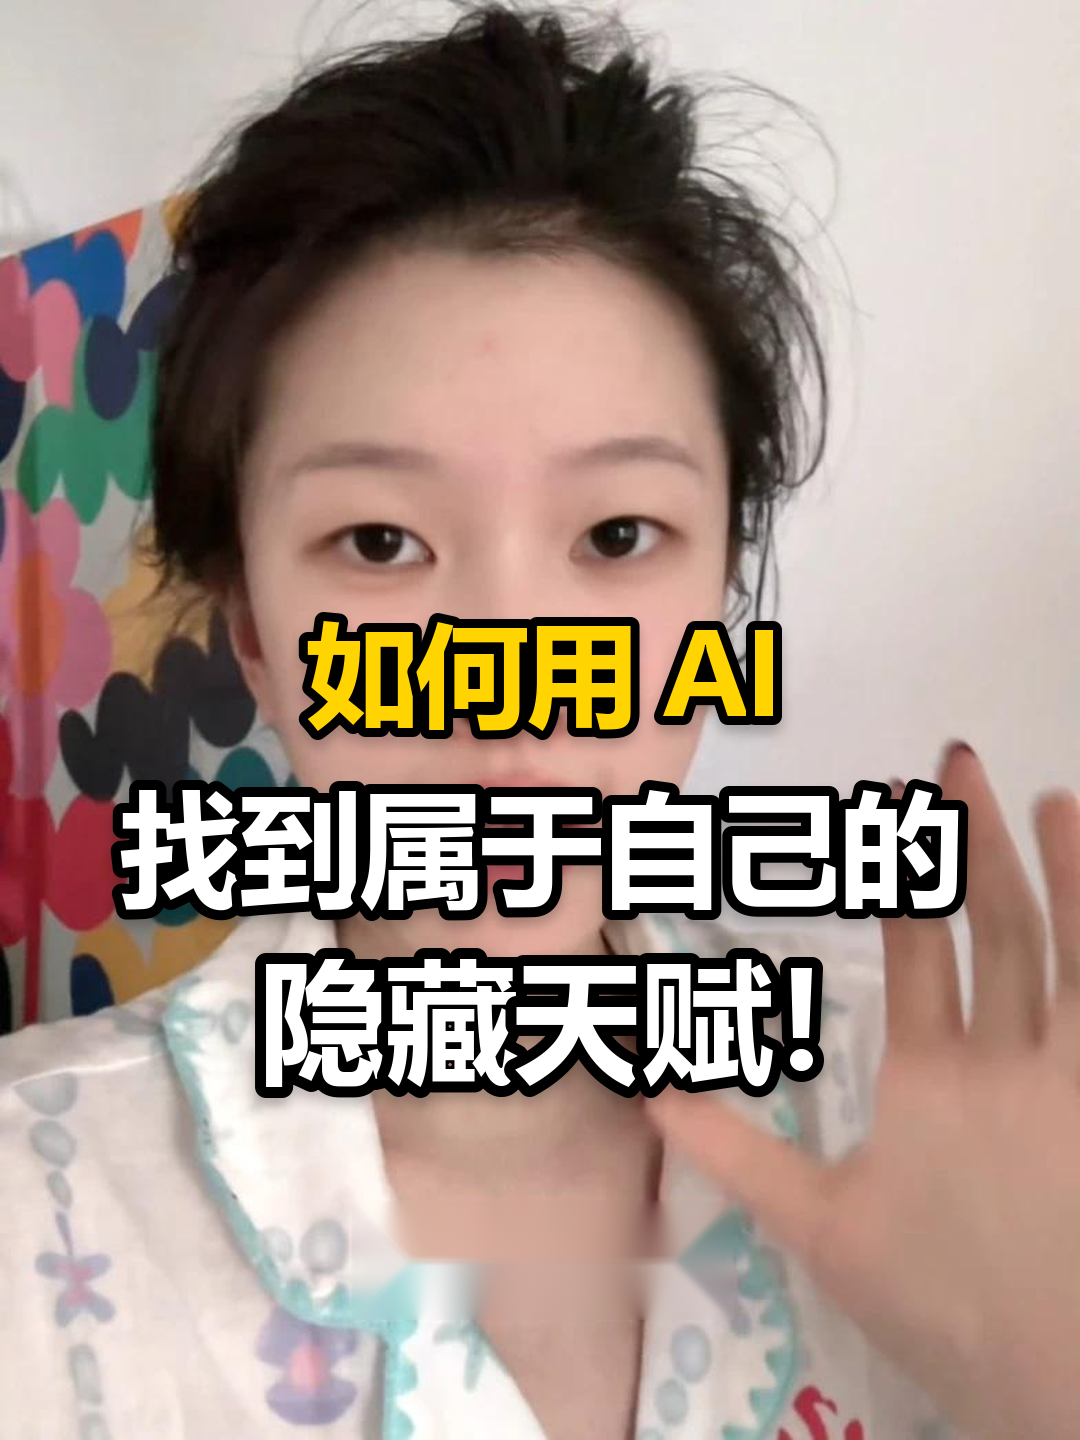
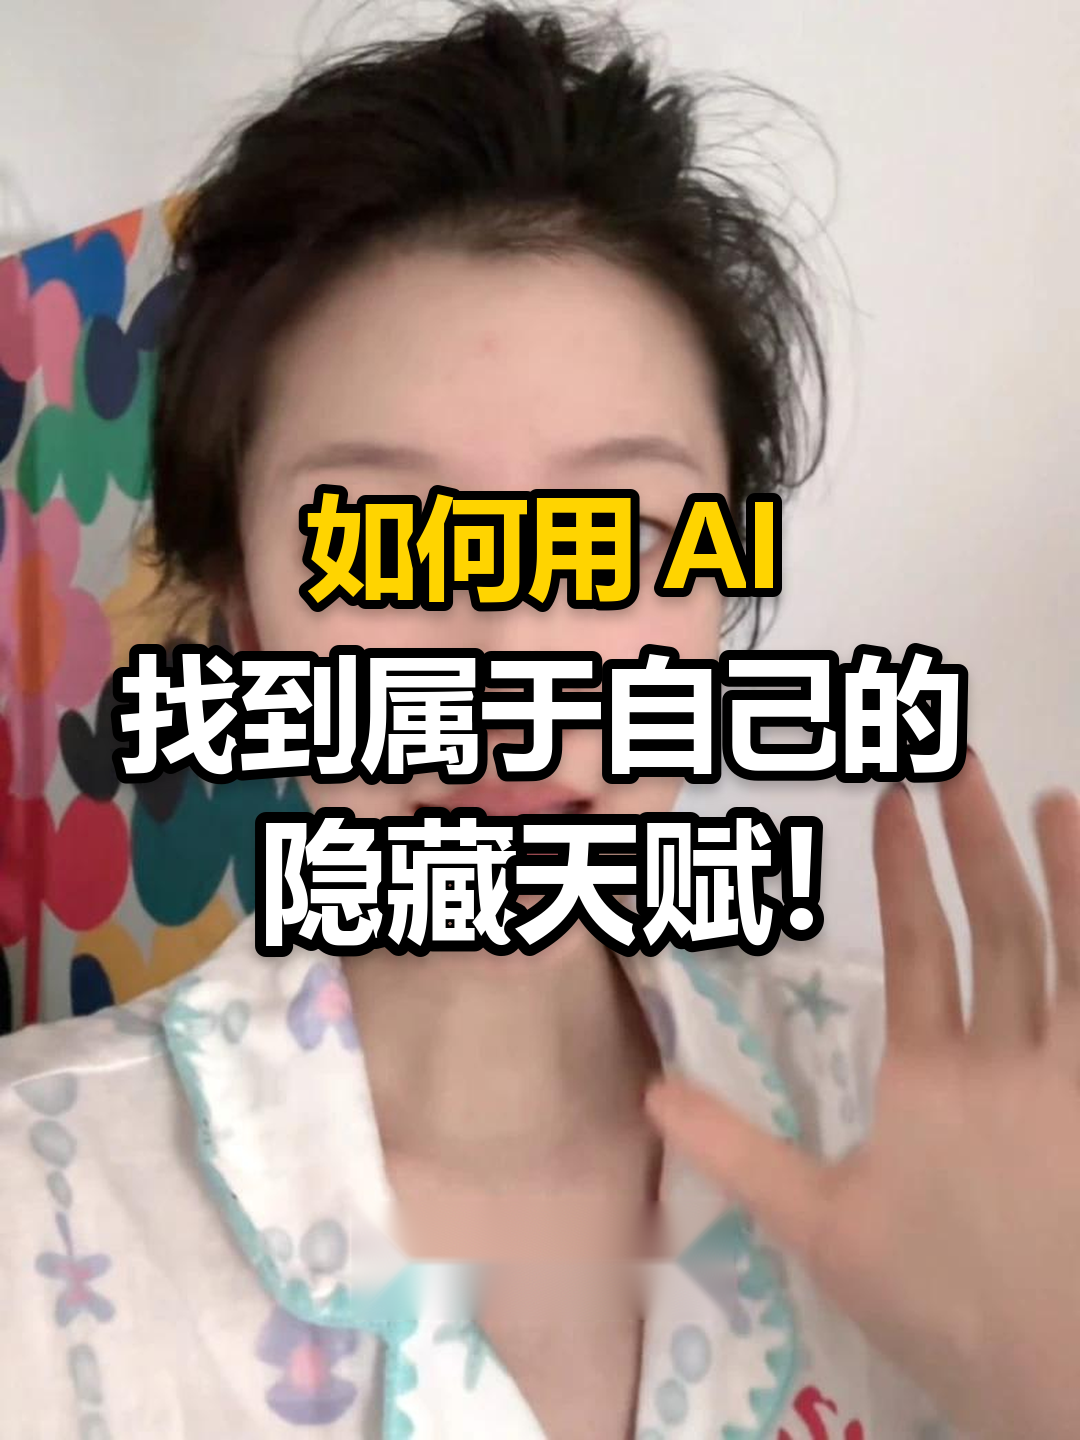
fix: 文字块改为画布绝对居中并写死
- 定位改为取整块文字的墨迹包围盒，中心直接钉在 (W/2, H/2)，左右上下同时居中
- 移除 zone / 绝对 y 两套会漂移的参数，只保留 --offset-y 做 ±40px 微调
- 同步更新风格卡、README、SKILL、INDEX 里的参数说明与设计常量
- 重出两张代表样本

Changed region(s): [[0.0917, 0.3125, 0.9167, 0.7812]]

diff --git a/tools/style01_stroke_stack.py b/tools/style01_stroke_stack.py
@@ -31,8 +31,6 @@ FONT_PRESETS = {
     'heiti': (r'C:\Windows\Fonts\simhei.ttf', None),         # 黑体，硬朗综艺感
 }
 
-ZONES = {'top': 0.26, 'upper': 0.40, 'face': 0.56, 'lower': 0.70, 'bottom': 0.80}
-
 USABLE = 0.83          # 可用宽度占比（两侧各留 8.5%）
 STROKE_RATIO = 0.080   # 描边 / 字号
 LINE_GAP = 1.36        # 行距 / 正文字号
@@ -187,7 +185,7 @@ def auto_split(text, max_visual=7.4):
 # ------------------------------------------------------------ 绘制
 
 def draw_line(canvas_w, text, size, fill, stroke, tracking):
-    """逐字绘制（字距可控），按墨迹裁切返回图层"""
+    """逐字绘制（字距可控），按墨迹裁切。返回 (图层, 基线在图层内的 y)"""
     f = load_font(preset_holder['font'], size)
     tmp = Image.new('RGBA', (canvas_w + 600, int(size * 2.6)), (0, 0, 0, 0))
     d = ImageDraw.Draw(tmp)
@@ -197,14 +195,16 @@ def draw_line(canvas_w, text, size, fill, stroke, tracking):
                stroke_width=stroke, stroke_fill=(0, 0, 0, 255))
         x += d.textlength(ch, font=f) + tracking
     bbox = tmp.getbbox()
-    return tmp.crop(bbox) if bbox else None
+    if not bbox:
+        return None, 0
+    return tmp.crop(bbox), baseline - bbox[1]
 
 
 preset_holder = {'font': 'noto'}
 
 
 def render(base, out, title=None, split=None, accent='#FFD400', font='noto',
-           zone='face', y=None, shadow=True, width=1080, height=1440,
+           offset_y=0, shadow=True, width=1080, height=1440,
            tracking=-5, stroke_ratio=STROKE_RATIO, size_ratio=DEFAULT_S):
     preset_holder['font'] = font
     W, H = width, height
@@ -238,38 +238,43 @@ def render(base, out, title=None, split=None, accent='#FFD400', font='noto',
     S = min(lo, W * size_ratio)
     sizes = [max(int(W * 0.05), int(round(S * c))) for c in coef]
 
-    center_y = y if y is not None else H * ZONES.get(zone, 0.56)
+    # ===== 硬约束：整块文字按墨迹包围盒钉在画布正中（左右 + 上下）=====
     gap = LINE_GAP * S
-    centers = [center_y + (i - (n - 1) / 2) * gap for i in range(n)]
-
+    stage = Image.new('RGBA', (W, H * 2), (0, 0, 0, 0))
+    base0 = int(H * 0.90)              # 任意起点，后面会被 bbox 重新定位
     accent_rgba, white = hex2rgba(accent), (255, 255, 255, 255)
-    layers = []
-    for i, (ln, size, cy) in enumerate(zip(lines, sizes, centers)):
+    for i, (ln, size) in enumerate(zip(lines, sizes)):
         st = max(6, round(size * stroke_ratio))
-        layer = draw_line(W, ln, size, accent_rgba if i == 0 else white,
-                          st, tracking * size / 123.0)
-        if layer:
-            layers.append((layer, cy, size))
+        layer, base_in_layer = draw_line(
+            W, ln, size, accent_rgba if i == 0 else white, st,
+            tracking * size / 123.0)
+        if not layer:
+            continue
+        line_baseline = base0 + i * gap
+        stage.alpha_composite(layer, (int(W / 2 - layer.width / 2),
+                                      int(line_baseline - base_in_layer)))
+
+    bbox = stage.getbbox()
+    block = stage.crop(bbox)
+    x = int(round((W - block.width) / 2))
+    y = int(round((H - block.height) / 2 + offset_y))
 
     if shadow:
-        sh = Image.new('RGBA', (W, H), (0, 0, 0, 0))
         off = max(3, round(W * 0.0074))
-        for layer, cy, size in layers:
-            sil = Image.new('RGBA', layer.size, (0, 0, 0, 0))
-            sil.paste((0, 0, 0, 58), (0, 0), layer.getchannel('A'))
-            sh.alpha_composite(sil, (int(W / 2 - layer.width / 2),
-                                     int(cy + size * 0.355 - layer.height / 2 + off)))
+        sil = Image.new('RGBA', block.size, (0, 0, 0, 0))
+        sil.paste((0, 0, 0, 58), (0, 0), block.getchannel('A'))
+        sh = Image.new('RGBA', (W, H), (0, 0, 0, 0))
+        sh.alpha_composite(sil, (x, min(y + off, H - block.height)))
         img = Image.alpha_composite(
             img.convert('RGBA'),
             sh.filter(ImageFilter.GaussianBlur(max(2, round(W * 0.0056)))))
 
-    for layer, cy, size in layers:
-        img.alpha_composite(layer, (int(W / 2 - layer.width / 2),
-                                    int(cy + size * 0.355 - layer.height / 2)))
+    img.alpha_composite(block, (x, y))
 
     img.convert('RGB').save(out, quality=96)
-    return {'lines': lines, 'sizes': sizes, 'S': round(S), 'zone': zone,
-            'center_y': int(center_y), 'gap': int(gap), 'size': (W, H)}
+    return {'lines': lines, 'sizes': sizes, 'S': round(S), 'gap': int(gap),
+            'block': (block.width, block.height), 'offset': (x, y),
+            'size': (W, H)}
 
 
 def sys_exit(msg):
@@ -284,8 +289,8 @@ def main():
     ap.add_argument('--split', help='手动分行，用 | 分隔')
     ap.add_argument('--accent', default='#FFD400', help='首行钩子色，默认亮黄')
     ap.add_argument('--font', default='noto', choices=list(FONT_PRESETS))
-    ap.add_argument('--zone', default='face', choices=list(ZONES))
-    ap.add_argument('--y', type=int, default=None, help='直接指定字块中心 y')
+    ap.add_argument('--offset-y', type=int, default=0,
+                    help='在正中基础上的微调像素，默认 0（正=下移）')
     ap.add_argument('--width', type=int, default=1080)
     ap.add_argument('--height', type=int, default=1440)
     ap.add_argument('--tracking', type=int, default=-5)
@@ -295,12 +300,13 @@ def main():
     ap.add_argument('--no-shadow', action='store_true')
     a = ap.parse_args()
 
-    p = render(a.base, a.out, a.title, a.split, a.accent, a.font, a.zone, a.y,
+    p = render(a.base, a.out, a.title, a.split, a.accent, a.font, a.offset_y,
                shadow=not a.no_shadow, width=a.width, height=a.height,
                tracking=a.tracking, stroke_ratio=a.stroke_ratio,
                size_ratio=a.size_ratio)
     print(f"saved: {a.out}  {p['size'][0]}x{p['size'][1]}")
-    print(f"字体={a.font}  S={p['S']}  行距={p['gap']}  字块中心y={p['center_y']}")
+    print(f"字体={a.font}  S={p['S']}  行距={p['gap']}  "
+          f"字块 {p['block'][0]}x{p['block'][1]} @ {p['offset']}（画布正中）")
     for ln, s in zip(p['lines'], p['sizes']):
         print(f"  [{s:>4}px] {ln}")
 

diff --git a/style-library/01-描边压脸.md b/style-library/01-描边压脸.md
@@ -1,8 +1,10 @@
 # 样式 01 · 描边压脸 / Stroke Stack
 
-> **核心画像**：真人实拍底图 + **纯黑描边**大字 + **强调色钩子行 / 白结论行**双层撞色 + 多行堆叠**直接压住人物脸部**居中。
+> **核心画像**：真人实拍底图 + **纯黑描边**大字 + **强调色钩子行 / 白结论行**双层撞色 + 多行堆叠，**整块文字钉在画布正中（左右上下都居中）**，自然压住人物脸部。
 >
-> 关键识别特征只有两个：**黑描边**（不是白描边、不是投影）+ **压脸**（不是避脸、不是贴顶）。这一对组合就是"综艺标题字 / 短视频封面"那股味的来源。
+> 关键识别特征只有两个：**黑描边**（不是白描边、不是投影）+ **绝对居中**（整块墨迹钉死在画布正中，不是贴顶、不是靠下、不是避脸）。这一对组合就是"综艺标题字 / 短视频封面"那股味的来源。
+>
+> **居中不是可选项，是硬约束**：出图器用整块文字的墨迹包围盒算中心，左右对 W/2、上下对 H/2。不提供 zone、不提供绝对 y，唯一的例外是 `--offset-y` 的 ±40px 微调。
 >
 > 和「实拍压字」的根本区别：实拍压字无描边、双色是金黄+白、文字**避开**脸、堆在顶部；本卡有描边、文字**盖住**脸、堆在画面中部。两张卡不能混用参数。
 
@@ -25,7 +27,7 @@ core:
   overlay: 无蒙层 —— 禁止任何半透明色块/渐变遮罩
   stroke: 纯黑 #000000 描边（不是白描边、不是投影代替）
   color_system: 双层撞色 —— 首行强调色 + 其余纯白，最多两色
-  text_position: 多行堆叠，水平居中，垂直压住「眼下 → 下巴」这一段
+  text_position: 多行堆叠，整块墨迹包围盒的中心 = 画布中心 (W/2, H/2) —— 左右上下同时居中，硬约束
   max_lines: 3
   no_sticker: 不加小型分类标签、不加边框、不加贴纸
   no_caption: 底图若带原视频字幕，必须先修掉再压字
@@ -36,10 +38,10 @@ layout:
   usable_width: 0.83 W          # 两侧各留 8.5%
   margin: 0.085 W
   line_count: 2-3（1 行仅用于极短标题）
-  align: 居中（按字形墨迹居中，不是按字面框）
+  align: 居中 —— 按整块字形墨迹包围盒算，不是按字面框/行高框
   tracking: -5px @1080（=-0.04em，收紧不松散）
-  block_center_y: 0.56 H        # 默认字块中心，压脸
-  zones: {top: 0.26, upper: 0.40, face: 0.56, lower: 0.70, bottom: 0.80}
+  block_center: [0.5 W, 0.5 H]  # 硬约束：整块墨迹中心 = 画布中心
+  offset_y: 0                  # 唯一可调项，±40px 以内微调，默认 0
 
 # —— 字号阶梯（梯形：首行收、末行放大落点）——
 typography:
@@ -67,7 +69,7 @@ text_rules:
   break: 断行必须落在语义边界（jieba 分词 + 中文禁则），禁止拆开词语
   punctuation: 全角 ！？ 保留；行末标点紧随，不单独成行
 
-one_liner: 黑描边 + 黄色钩子 + 白色结论，三行堆叠压住脸——缩略图里最抓眼的那一类
+one_liner: 黑描边 + 黄色钩子 + 白色结论，三行堆叠、整块钉在画面正中——缩略图里最抓眼的那一类
 
 samples:
   - path: style-library/01-描边压脸/sample-01_雅黑_如何用AI找到隐藏天赋.png
@@ -80,7 +82,7 @@ samples:
 
 ## 一句话记住它
 
-**黑边框住字，黄字抓眼，白字给答案，整块压在脸上。**
+**黑边框住字，黄字抓眼，白字给答案，整块钉在画面正中。**
 
 ---
 
@@ -111,8 +113,8 @@ python tools/style01_stroke_stack.py \
     --base 底图.png --out 封面.png \
     --split "如何用 AI|找到属于自己的|隐藏天赋！"
 
-# 换气质 / 换强调色 / 换字块位置 / 换画布
-... --font heiti --accent "#FF3B30" --zone upper --width 1242 --height 1656
+# 换气质 / 换强调色 / 换画布 / 微调上下
+... --font heiti --accent "#FF3B30" --width 1242 --height 1656 --offset-y -30
 ```
 
 脚本会自动处理：裁 3:4 → 断行（jieba 分词 + 禁则）→ 算字号（长文案缩小、短文案不放大）→ 墨迹居中 → 描边 → 投影 → 输出。运行完会打印每行字号和字块中心 y，方便复核。
@@ -125,8 +127,7 @@ python tools/style01_stroke_stack.py \
 | `--split` | — | 手动分行，`|` 分隔（优先级高于 title） |
 | `--accent` | `#FFD400` | 首行钩子色 |
 | `--font` | `noto` | `noto` / `yahei` / `heiti` |
-| `--zone` | `face` | `top` `upper` `face` `lower` `bottom` |
-| `--y` | — | 直接指定字块中心 y（精细微调用） |
+| `--offset-y` | `0` | 在正中基础上的微调像素（正=下移），建议 ±40 以内 |
 | `--size-ratio` | `0.116` | 正文字号/画布宽 |
 | `--stroke-ratio` | `0.080` | 描边/字号 |
 | `--tracking` | `-5` | 字距（按 1080 基准自动缩放） |
@@ -139,7 +140,7 @@ python tools/style01_stroke_stack.py \
 2. **定断行**：读一遍标题，自己判语义边界，用 `--split` 写死三行。**不要全交给自动断行**——它是兜底，不是标准。
    - 首行放钩子（含英文词/数字最佳，会自动上黄色）
    - 末行放最狠的落点
-3. **定字块位置**：人物脸大且居中 → `face`；人物偏上/露肩多 → `lower`；脸被手挡 → `upper`。有偏差用 `--y` 微调 20-40px。
+3. **位置不用想**：整块文字默认就钉在画布正中（左右上下都居中），这是写死的。只有当人脸明显偏离画面中心、文字压上去很别扭时，才用 `--offset-y ±40` 微调，别养成每次都调的习惯。
 4. **出图后逐字核对**（描边可能糊住小字，缩到 30% 看一眼还认不认得出）。
 5. **落盘**：`output/<YYYY-MM-DD>/<标题>.png`，并把可复用底图另存一份。
 
@@ -147,7 +148,8 @@ python tools/style01_stroke_stack.py \
 
 ## 已知边界
 
-- `face` 区固定 0.56H 是经验值。底图主体比例差异大时（4:3 裁 3:4 会放大人物），需要 `--y` 手动微调。
+- 居中是写死的（墨迹包围盒对画布中心）。底图人物明显偏离中心时，文字虽然居中但视觉重心会偏，只能靠 `--offset-y` 微调，调幅别超过 40px，否则破坏标准。
+- 三行文字块在 1080×1440 上约占 470px 高（33%），压脸是必然结果——这本来就是这套风格的样子，不要试图让它"避开脸"。
 - 单行标题会自动全部上强调色（因为首行规则优先），视觉上比三行版弱一档，长标题尽量不要压成一行。
 - 中文断行依赖 jieba；环境缺 jieba 时退回逐字 + 禁则，仍可能把词拆开 —— 所以 `--split` 永远是更稳的路。
 - 描边超过 `0.09` 会把细笔画糊成一团（"口"字类会闭合），别贪粗。

diff --git a/README.md b/README.md
@@ -10,7 +10,7 @@
 
 | 编号 | 样式 | 识别特征 | 适合 |
 |---|---|---|---|
-| **01** | 描边压脸 | 纯黑描边 + 黄色钩子行 + 白色结论行，多行堆叠**压住脸** | 一句话标题、真人口播、赚钱认知、工具教学 |
+| **01** | 描边压脸 | 纯黑描边 + 黄色钩子行 + 白色结论行，多行堆叠、**整块钉在画面正中** | 一句话标题、真人口播、赚钱认知、工具教学 |
 | **02** | 实拍压字 | 无描边、双色裸压、文字**避开**脸堆顶部 | 短语/数字点标题、观点对话、干货教程 |
 
 两张卡内核相反，参数不能混用。编号只增不改。
@@ -43,8 +43,7 @@ python tools/style01_stroke_stack.py \
 | `--split` | — | 手动分行，`\|` 分隔（优先级更高） |
 | `--accent` | `#FFD400` | 首行钩子色 |
 | `--font` | `noto` | `noto` 思源黑体 Heavy / `yahei` 微软雅黑 Bold / `heiti` 黑体 |
-| `--zone` | `face` | `top` `upper` `face` `lower` `bottom` |
-| `--y` | — | 直接指定字块中心 y，用于微调 |
+| `--offset-y` | `0` | 在正中基础上的微调像素（正=下移），建议 ±40 以内 |
 | `--size-ratio` | `0.116` | 正文字号 / 画布宽 |
 | `--stroke-ratio` | `0.080` | 描边 / 字号 |
 | `--tracking` | `-5` | 字距（按 1080 基准自动缩放） |
@@ -60,11 +59,13 @@ python tools/style01_stroke_stack.py \
 描边粗细      0.080 × 本行字号
 行距          1.36 × 正文字号        # 行中心 → 行中心
 行字号阶梯    0.91 / 1.00 / 1.065    # 首行收、末行放大落点
-字块中心      0.56 H                 # 压住眼下 → 下巴
+字块中心      0.5 W, 0.5 H           # 硬约束：整块墨迹钉在画布正中
 投影          黑 58/255，偏移 0.0074 W，模糊 0.0056 W
 ```
 
 正文字号固定 `0.116 W`，长文案靠缩小兜住、短文案不放大——这样一组封面排在一起，字号是齐的。
+
+**居中是写死的**：按整块文字的墨迹包围盒算中心，左右对 `W/2`、上下对 `H/2`。没有 zone、没有绝对 y，唯一例外是 `--offset-y` 的 ±40px 微调。
 
 ---
 

diff --git a/SKILL.md b/SKILL.md
@@ -19,7 +19,7 @@ allowed-tools: Bash(*), Read, Write, Edit, Grep, Glob, Skill, ImageGen(经DeferE
 
 | 编号 | 样式名 | 关键识别特征 | 出图工具 |
 |---|---|---|---|
-| **01** | 描边压脸 | 纯黑描边 + 黄色钩子行 + 白色结论行，三行堆叠**压脸** | `tools/style01_stroke_stack.py` |
+| **01** | 描边压脸 | 纯黑描边 + 黄色钩子行 + 白色结论行，三行堆叠、**整块钉在画布正中** | `tools/style01_stroke_stack.py` |
 | **02** | 实拍压字 | 无描边、双色裸压、文字**避开**脸 | `tools/compose_cover.py` |
 
 > 用户报编号时**不要反问"是哪个"**，直接查 `style-library/INDEX.md` 拿卡出图。
@@ -67,7 +67,7 @@ allowed-tools: Bash(*), Read, Write, Edit, Grep, Glob, Skill, ImageGen(经DeferE
 2. **看底图套 dispatch 规则**（见「看图分流铁律」）：底色定字色方案，标题结构定布局，不问用户选变体。
 3. **选技术路线（关键分流）**：
    - **路线 A：PIL 代码合成**——底图**不需要改动**、只压标题时，**默认走这条**。底图 100% 保真（AI 会重绘磨皮真人）、文字像素级正确、无水印、零 credits、秒出。按风格卡指定的工具调用：
-     - 样式 01 描边压脸 → `python tools/style01_stroke_stack.py --base 底图 --out 输出 --split "首行|次行|末行" [--accent] [--font] [--zone]`
+     - 样式 01 描边压脸 → `python tools/style01_stroke_stack.py --base 底图 --out 输出 --split "首行|次行|末行" [--accent] [--font] [--offset-y]`
      - 样式 02 实拍压字 → `python tools/compose_cover.py --base 底图 --out 输出 --small 白短句 --lines 大字行 --color 主字色`
    - 工具都在本 skill 目录内。当前工作目录不确定时**用绝对路径调用**（`~/.workbuddy/skills/cover-style-lab/tools/style01_stroke_stack.py`），别 `cd` 进去再跑。
    - **路线 B：AI 图生图**——底图需要**改造**（换背景/造场景/无底图文生图）时才用。真人底图走 AI 会重绘人物（磨皮、衣物细节变动），做真人 IP 素材慎用。

diff --git a/style-library/INDEX.md b/style-library/INDEX.md
@@ -14,7 +14,7 @@
 
 | 编号 | 风格名 | 一句话特征 | 适用内容 | 出图方式 | 代表图 | 状态 |
 |---|---|---|---|---|---|---|
-| **01** | [描边压脸](01-描边压脸.md) | 纯黑描边 + 黄色钩子行 + 白色结论行，多行堆叠**压住脸**居中，双层撞色 | 真人出镜、赚钱认知、工具教学、一句话标题 | `tools/style01_stroke_stack.py`（PIL） | [样本1](01-描边压脸/sample-01_雅黑_如何用AI找到隐藏天赋.png) / [样本2](01-描边压脸/sample-02_思源heavy_同款对比.png) | active |
+| **01** | [描边压脸](01-描边压脸.md) | 纯黑描边 + 黄色钩子行 + 白色结论行，多行堆叠、**整块钉在画布正中**，双层撞色 | 真人出镜、赚钱认知、工具教学、一句话标题 | `tools/style01_stroke_stack.py`（PIL） | [样本1](01-描边压脸/sample-01_雅黑_如何用AI找到隐藏天赋.png) / [样本2](01-描边压脸/sample-02_思源heavy_同款对比.png) | active |
 | **02** | [实拍压字](实拍压字.md) | 真人/场景实拍 + 双色超大字**无描边裸压**；看图定方案——暖底金黄/冷底冷色/暗底亮字 | 真人出镜 IP、观点对话、干货教程 | `tools/compose_cover.py`（PIL）/ 图生图 | [样本1](实拍压字/sample-01_真人变体-从尬聊到深聊.png) / [样本2](实拍压字/sample-02_场景变体-codex隐藏功能.png) | active |
 
 ---
@@ -27,7 +27,7 @@
 |---|---|---|
 | 描边 | **纯黑粗描边**（识别特征） | 无描边，靠投影/暗部 |
 | 字色 | 黄 + **白** | 金黄 + 白（暖底）/ 冷色 + 白 |
-| 文字位置 | **压住脸**（眼下→下巴） | **避开脸**，堆顶部或对角 |
+| 文字位置 | **画布正中**（硬约束，压住脸） | **避开脸**，堆顶部或对角 |
 | 可读性来源 | 黑描边强行分离 | 底图暗部 / 投影 / 虚化 |
 | 气质 | 综艺、强钩子、缩略图抓眼 | 克制、高级、图文一体 |
 
